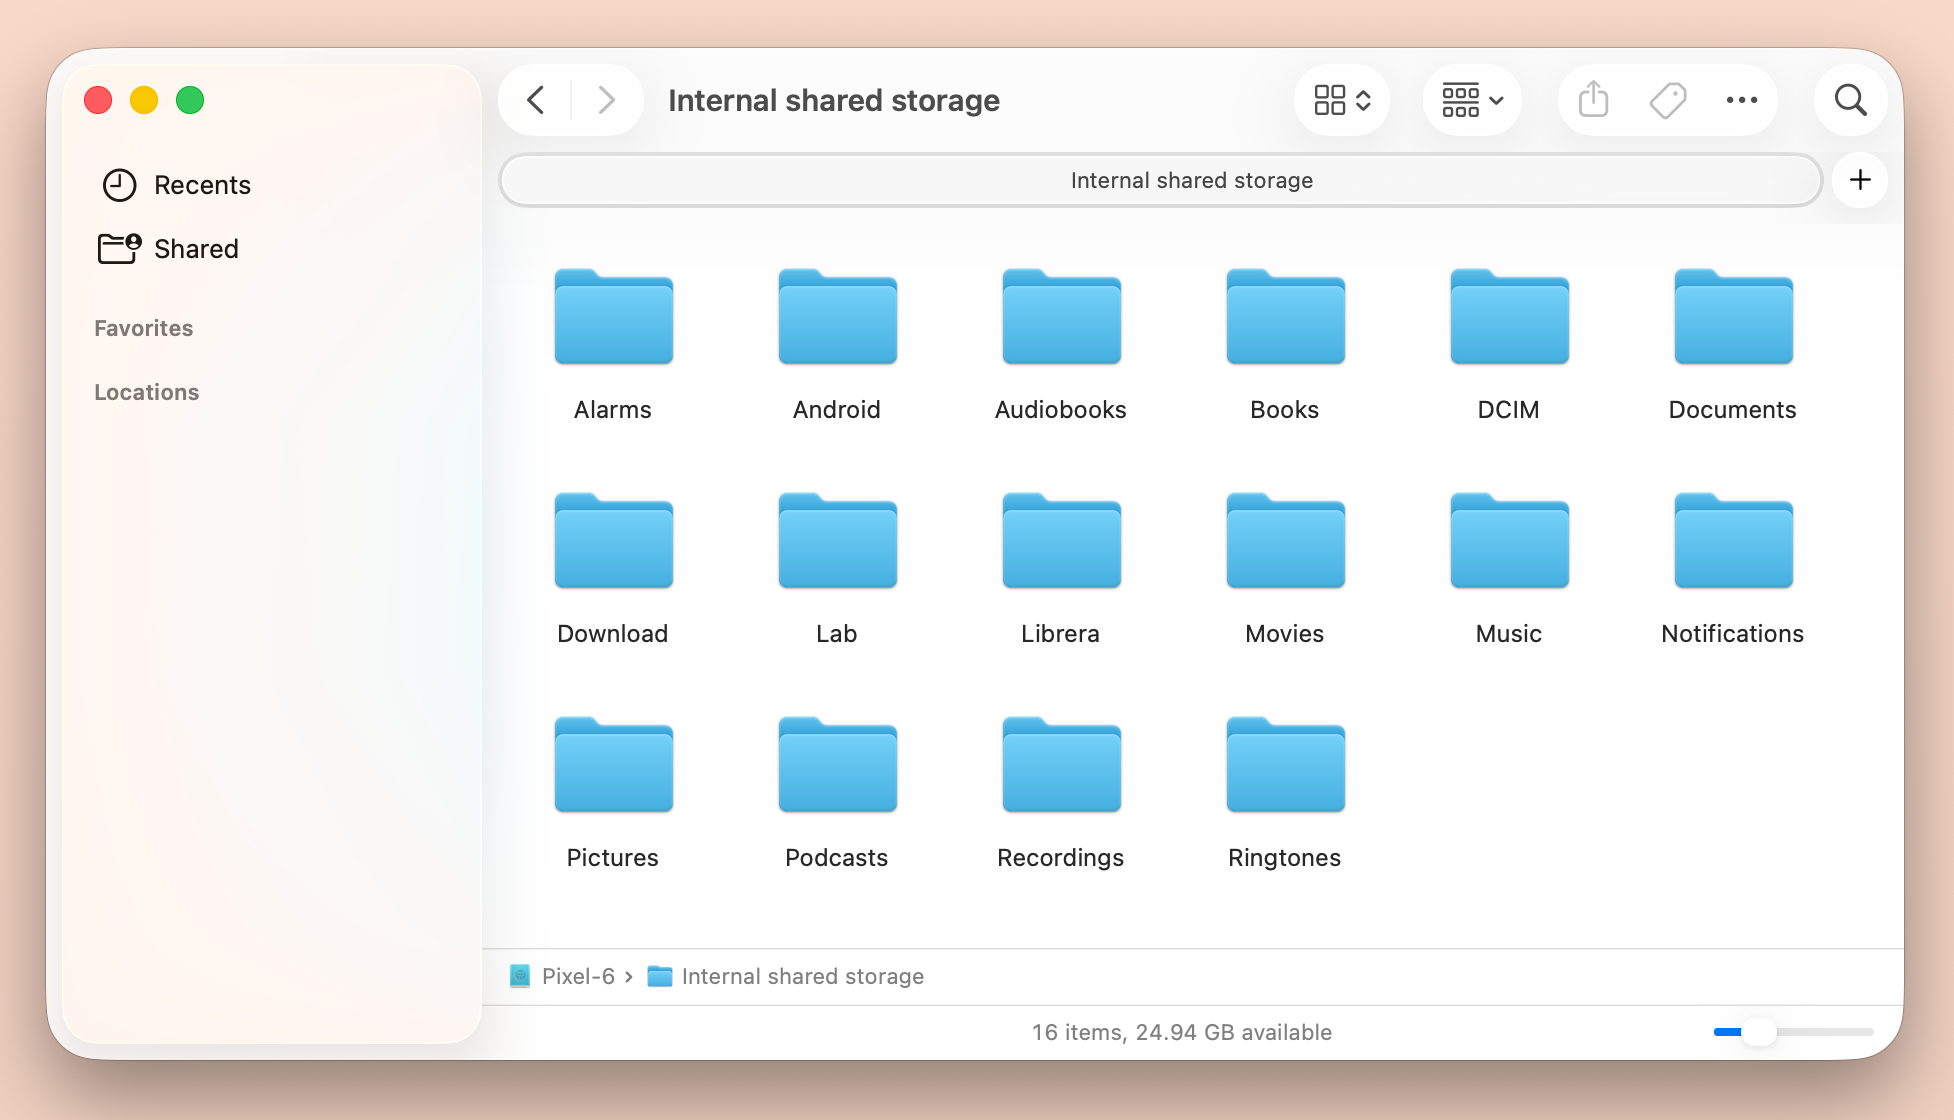
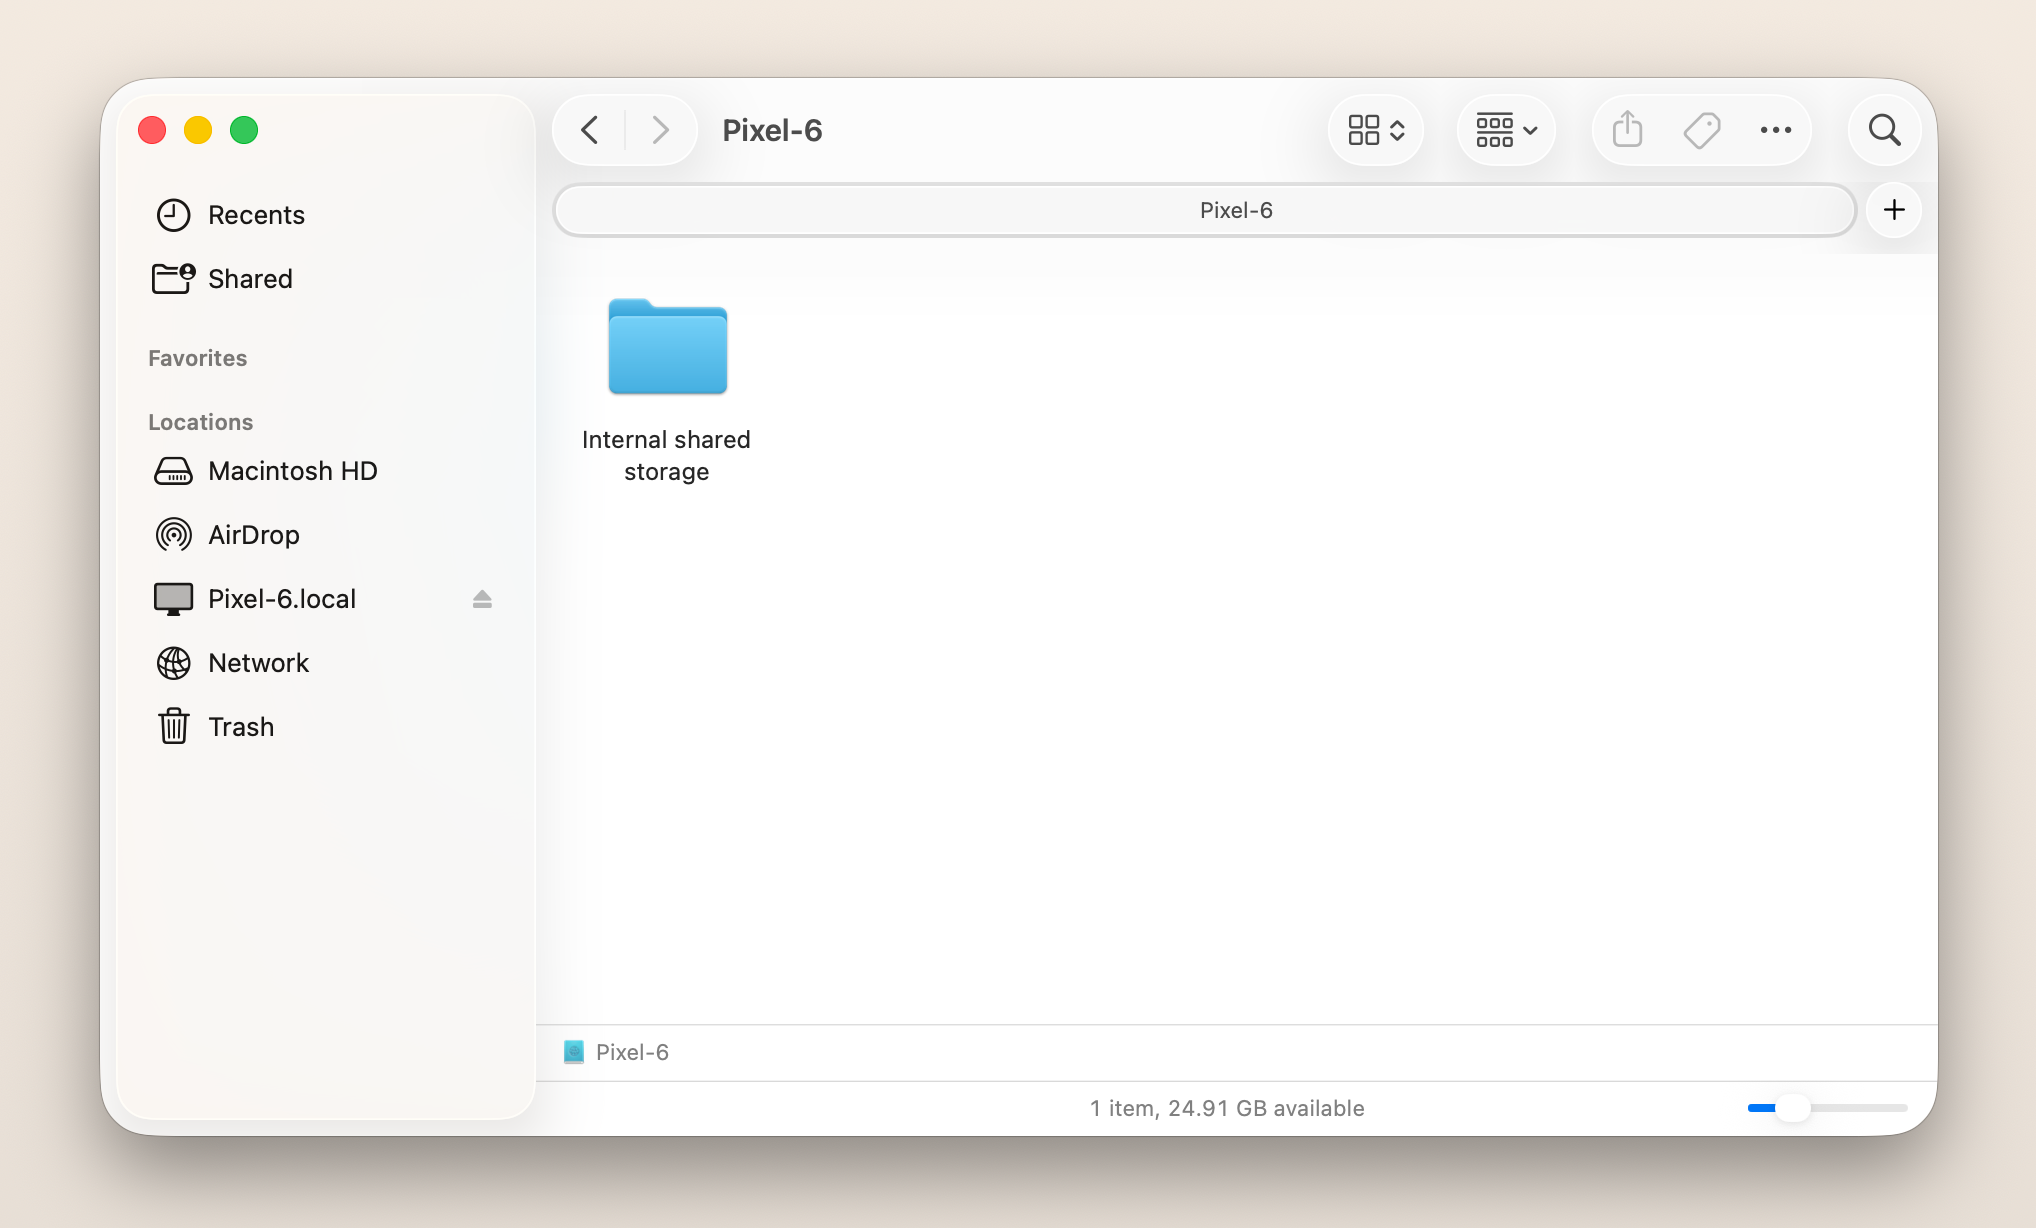
docs(site): refreshed demo shots, flat screenshots, cream #f4ebe1 base
- updated hero + multi screenshots (devices now shown under Locations in
  the sidebar); alt text corrected to match
- removed the drop-shadow on .shot img (screenshots sit flat)
- rebased --base/--page-bg + theme-color to parchment cream #f4ebe1 to
  match the Morghen plates; --base-h kept at 21 so all derived colours
  retain their current hex

diff --git a/docs/site/index.html b/docs/site/index.html
@@ -6,7 +6,7 @@
 <title>Comprador — Your phone, in Finder</title>
 <meta name="description" content="See your Android phone and USB cameras in Finder, mounted like any other volume. Drag, drop, browse — no developer mode, no kernel extension. Free and open source, signed by Apple, for macOS.">
 <link rel="canonical" href="https://terraceonhigh.github.io/Comprador/">
-<meta name="theme-color" content="#f7d7c6">
+<meta name="theme-color" content="#f4ebe1">
 <link rel="icon" href="images/icon.png">
 
 <!-- Open Graph / social -->
@@ -23,8 +23,9 @@
 <style>
   :root {
     /* ---- the anchor: nail #f7d7c6, derive everything else from its hue ---- */
-    --base:   #f7d7c6;   /* peach — the one fixed point  ( = hsl(21, 75%, 87%) ) */
-    --base-h: 21;        /* its hue. Change this one number and the whole site reharmonises. */
+    --base:   #f4ebe1;   /* the underlay/anchor — parchment cream, matching the Morghen plates */
+    --base-h: 21;        /* derivation hue (the peach the accents + ink were tuned around); kept
+                            fixed so every derived colour below keeps its current hex value */
 
     /* surfaces — base hue, varying saturation + lightness */
     --page-bg:    var(--base);                    /* the backdrop */
@@ -127,7 +128,6 @@
   .shot { margin: 52px auto 0; max-width: 820px; }
   .shot img {
     width: 100%; border-radius: 12px; display: block;
-    box-shadow: 0 12px 32px -16px rgba(60,40,10,0.30), 0 1px 4px rgba(60,40,10,0.10);
   }
 
   /* ---- feature sections ---- */
@@ -199,7 +199,7 @@
     <p class="reqline">Free and open source · Apple Silicon · macOS 13 or later</p>
 
     <div class="shot">
-      <img src="images/demo-light.png" alt="An Android phone mounted as a volume in macOS Finder — a Pixel 6's internal storage open in a Finder window, the device name shown in the path bar below">
+      <img src="images/demo-light.png" alt="An Android phone mounted as a volume in macOS Finder — a Pixel 6 listed under Locations in the sidebar (Pixel-6.local), its internal storage open in the window">
     </div>
   </div>
 
@@ -208,7 +208,7 @@
     <p>Each one in your sidebar. Browse one while another transfers.</p>
 
    <div class="shot">
-      <img src="images/demo-light-multi.png" alt="Two devices mounted at once in macOS Finder — one phone's internal storage and a Sony Xperia's SD card, open in separate Finder windows">
+      <img src="images/demo-light-multi.png" alt="Two devices mounted at once in macOS Finder — a Pixel 6 and a Sony Xperia both listed under Locations in the sidebar, the Xperia's SD card and the phone's internal storage open in separate windows">
     </div> 
   </section>
 
